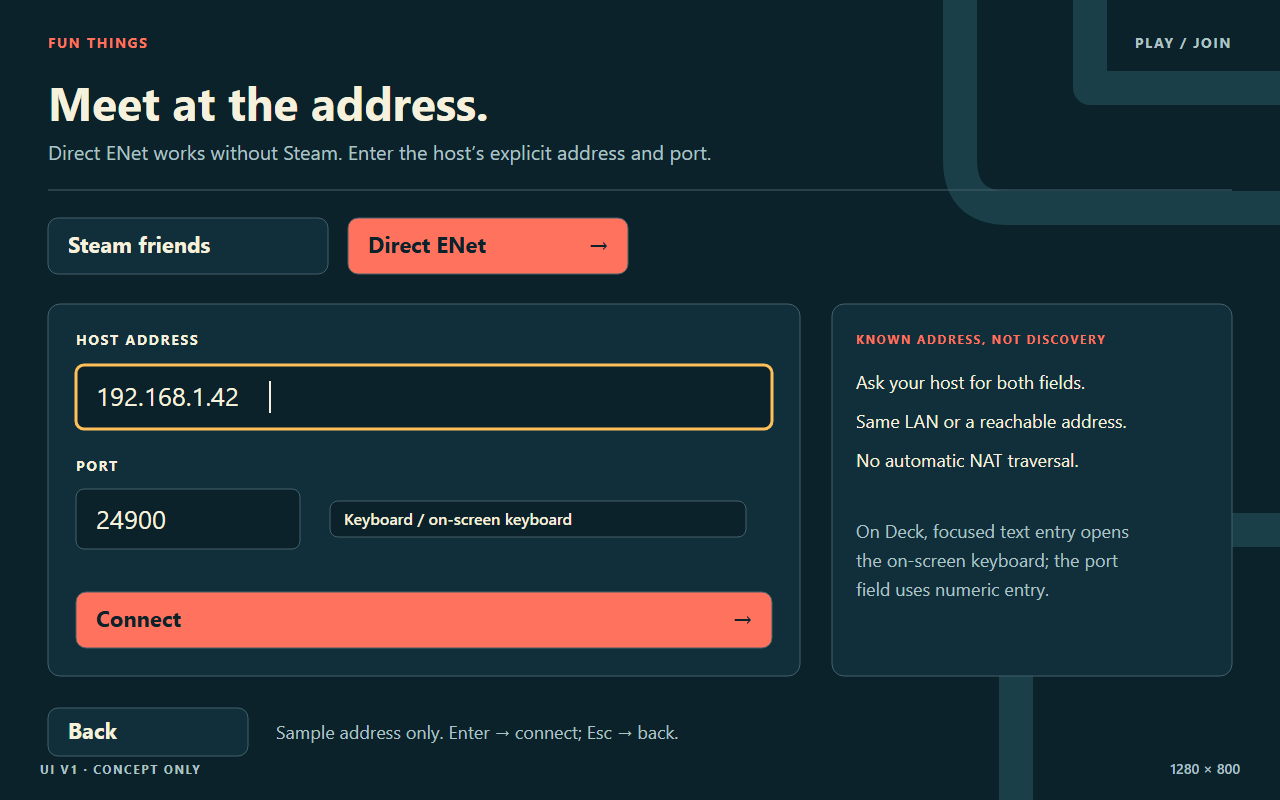
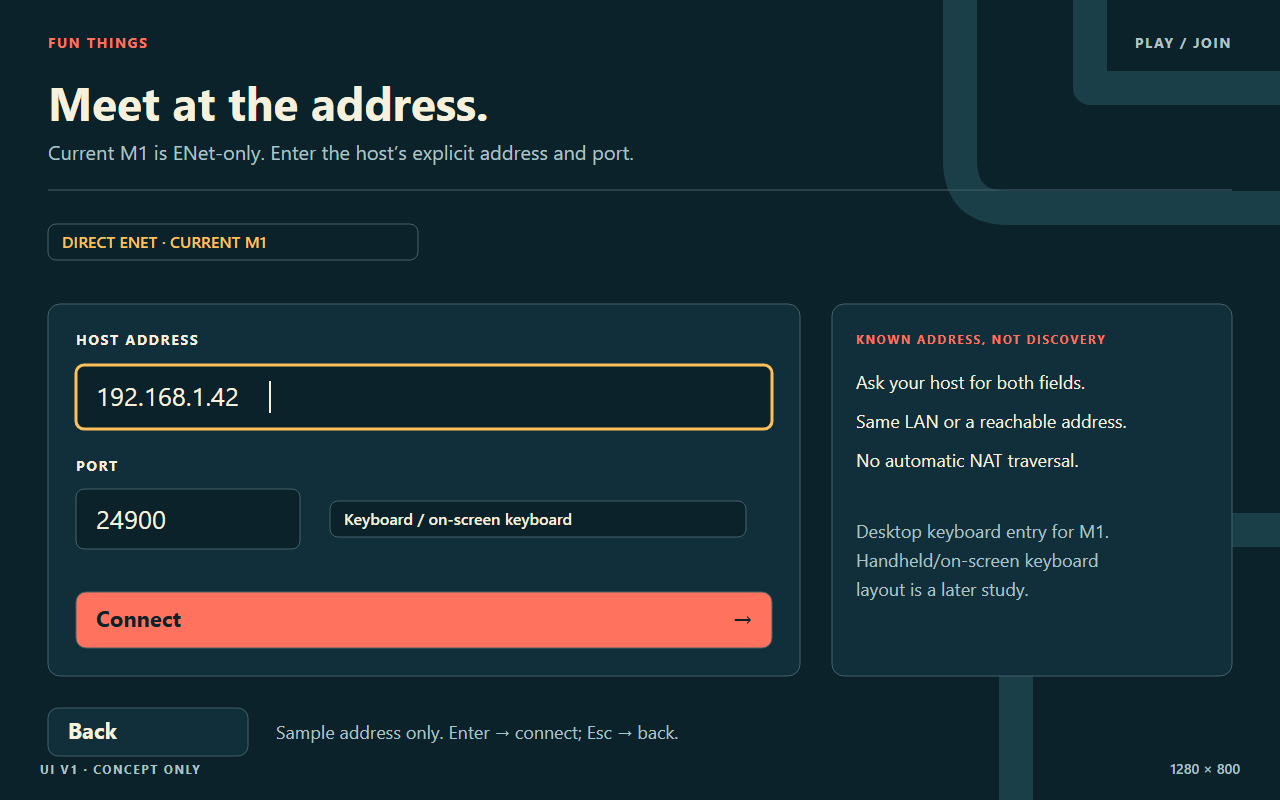
docs: separate ENet-only UI from future Steam exploration

diff --git a/docs/concepts/ui-v1/review.html b/docs/concepts/ui-v1/review.html
@@ -1,8 +1,9 @@
 <!doctype html>
 <html lang="en"><head><meta charset="utf-8"><meta name="viewport" content="width=device-width,initial-scale=1"><title>Fun Things — UI v1</title><style>*{box-sizing:border-box}html{color-scheme:dark;background:#0c222b;color:#f6f1dc;font-family:system-ui,Arial,sans-serif}body{margin:0}main{max-width:1440px;margin:auto;padding:48px 32px 80px}a{color:#80d4c5;text-underline-offset:4px}a:focus-visible{outline:3px solid #ffc05a;outline-offset:5px}h1{font-size:clamp(32px,5vw,64px);line-height:1.05;margin:12px 0 24px}h2{font-size:28px;margin:48px 0 24px}p{line-height:1.6;max-width:85ch;color:#aec3c6}.eyebrow{color:#ff725d;font-weight:700;letter-spacing:.12em}nav{display:flex;flex-wrap:wrap;gap:24px;margin:28px 0}.swatches{display:flex;flex-wrap:wrap;gap:10px;margin:24px 0}.swatches span{padding:10px 18px;border-radius:6px;color:#0c222b;font-weight:650}.grid{display:grid;grid-template-columns:repeat(2,minmax(0,1fr));gap:28px}figure{margin:0;border:1px solid #45616b;background:#102f3a;border-radius:12px;overflow:hidden}figure img{display:block;width:100%;height:auto}figcaption{padding:16px 20px 20px;line-height:1.6}figcaption strong{display:block;font-size:20px;margin-bottom:6px}footer{border-top:1px solid #45616b;margin-top:48px;padding-top:20px}@media(max-width:850px){.grid{grid-template-columns:1fr}main{padding:24px 16px 48px}}</style></head><body><main>
 <p class="eyebrow">FUN THINGS / UI V1 / 8 OCTOBER 2026</p><h1>A little city.<br>A lot of trouble.</h1>
-<p>First concept pass in Petrol &amp; Coral. Eighteen screens at native 1280 × 800, with editable standalone SVG sources. These are static proposals, not implemented UI or owner acceptance. Click an image for the native PNG; view at 100% for text and marker size.</p>
-<nav aria-label="Review navigation"><a href="#gameplay">Gameplay &amp; map</a><a href="#menus">Menus &amp; sessions</a><a href="README.md">Rationale, tokens &amp; questions</a><a href="../../spikes/ui-v1-evidence/README.md">Validation evidence</a></nav>
+<p>First concept pass in Petrol &amp; Coral. Twenty-one screens at native 1280 × 800, with editable standalone SVG sources. These are static proposals, not implemented UI or owner acceptance. Click an image for the native PNG; view at 100% for text and marker size.</p>
+<p><strong>Current M1 is ENet-only.</strong> Host/join/lobby/admission use direct ENet with no Steam selector. Steam drawings are retained below as <strong>FUTURE ADAPTER EXPLORATION</strong> only: no Steam-specific features or testing now.</p>
+<nav aria-label="Review navigation"><a href="#gameplay">Gameplay &amp; map</a><a href="#menus">Current ENet menus</a><a href="#future">Future adapter exploration</a><a href="README.md">Rationale, tokens &amp; questions</a><a href="../../spikes/ui-v1-evidence/README.md">Validation evidence</a></nav>
 <div class="swatches" aria-label="Core palette"><span style="background:#f6f1dc">Ivory</span><span style="background:#ff725d">Coral</span><span style="background:#ffc05a">Amber focus</span><span style="background:#80d4c5">Pale teal</span><span style="background:#8ab8ff">Pale cobalt</span></div>
 <h2 id="gameplay">01–08 / Gameplay &amp; map</h2><p>Only the minimap's top-right position is accepted. Compare the full frame, not just the inner map. 200 px roads + blocks is the first candidate to try; the 240 px study exposes more occlusion. Tags and numbers are illustrative overlays.</p><div class="grid">
 <figure><a href="01-foot-compact.png"><img src="01-foot-compact.png" width="1280" height="800" loading="lazy" alt="On foot · compact / 160 px concept mockup"></a><figcaption><strong>01 · On foot · compact / 160 px</strong><a href="01-foot-compact.png">Native PNG</a> · <a href="01-foot-compact.svg">Standalone SVG</a></figcaption></figure>
@@ -13,14 +14,17 @@
 <figure><a href="06-car-moving.png"><img src="06-car-moving.png" width="1280" height="800" loading="lazy" alt="Driving · moving / exit unavailable concept mockup"></a><figcaption><strong>06 · Driving · moving / exit unavailable</strong><a href="06-car-moving.png">Native PNG</a> · <a href="06-car-moving.svg">Standalone SVG</a></figcaption></figure>
 <figure><a href="07-car-stopped.png"><img src="07-car-stopped.png" width="1280" height="800" loading="lazy" alt="Driving · stopped / exit eligible concept mockup"></a><figcaption><strong>07 · Driving · stopped / exit eligible</strong><a href="07-car-stopped.png">Native PNG</a> · <a href="07-car-stopped.svg">Standalone SVG</a></figcaption></figure>
 <figure><a href="08-minimap-directions.png"><img src="08-minimap-directions.png" width="1280" height="800" loading="lazy" alt="Minimap · three native-size directions concept mockup"></a><figcaption><strong>08 · Minimap · three native-size directions</strong><a href="08-minimap-directions.png">Native PNG</a> · <a href="08-minimap-directions.svg">Standalone SVG</a></figcaption></figure>
-</div><h2 id="menus">09–18 / Menus &amp; sessions</h2><p>Large actions, visible keyboard/controller focus, Steam friends and direct ENet kept distinct. No new settings beyond audio. World state, admission, cancellation and errors have explicit language; none of these flows is implemented by a drawing.</p><div class="grid"><figure><a href="09-main-menu.png"><img src="09-main-menu.png" width="1280" height="800" loading="lazy" alt="Main menu · Fun Things concept mockup"></a><figcaption><strong>09 · Main menu · Fun Things</strong><a href="09-main-menu.png">Native PNG</a> · <a href="09-main-menu.svg">Standalone SVG</a></figcaption></figure>
-<figure><a href="10-host.png"><img src="10-host.png" width="1280" height="800" loading="lazy" alt="Host · Steam friends and direct ENet concept mockup"></a><figcaption><strong>10 · Host · Steam friends and direct ENet</strong><a href="10-host.png">Native PNG</a> · <a href="10-host.svg">Standalone SVG</a></figcaption></figure>
-<figure><a href="11-join-steam.png"><img src="11-join-steam.png" width="1280" height="800" loading="lazy" alt="Join · Steam friends concept mockup"></a><figcaption><strong>11 · Join · Steam friends</strong><a href="11-join-steam.png">Native PNG</a> · <a href="11-join-steam.svg">Standalone SVG</a></figcaption></figure>
-<figure><a href="12-join-direct.png"><img src="12-join-direct.png" width="1280" height="800" loading="lazy" alt="Join · direct ENet address concept mockup"></a><figcaption><strong>12 · Join · direct ENet address</strong><a href="12-join-direct.png">Native PNG</a> · <a href="12-join-direct.svg">Standalone SVG</a></figcaption></figure>
-<figure><a href="13-lobby.png"><img src="13-lobby.png" width="1280" height="800" loading="lazy" alt="Lobby · up to four players concept mockup"></a><figcaption><strong>13 · Lobby · up to four players</strong><a href="13-lobby.png">Native PNG</a> · <a href="13-lobby.svg">Standalone SVG</a></figcaption></figure>
+</div><h2 id="menus">Current M1 / ENet menus &amp; sessions</h2><p>Large actions and visible focus. Direct ENet is the only current/default multiplayer path: 10 Host → 13 Lobby; 12 Join direct → 18 Admission. Sheet 11 is separated into the future-only section below. No new settings beyond audio. World state, admission, cancellation and errors have explicit language; none of these flows is implemented by a drawing.</p><div class="grid"><figure><a href="09-main-menu.png"><img src="09-main-menu.png" width="1280" height="800" loading="lazy" alt="Main menu · Fun Things concept mockup"></a><figcaption><strong>09 · Main menu · Fun Things</strong><a href="09-main-menu.png">Native PNG</a> · <a href="09-main-menu.svg">Standalone SVG</a></figcaption></figure>
+<figure><a href="10-host.png"><img src="10-host.png" width="1280" height="800" loading="lazy" alt="Current M1 · ENet-only host concept mockup"></a><figcaption><strong>10 · Current M1 · ENet-only host</strong><a href="10-host.png">Native PNG</a> · <a href="10-host.svg">Standalone SVG</a></figcaption></figure>
+<figure><a href="12-join-direct.png"><img src="12-join-direct.png" width="1280" height="800" loading="lazy" alt="Current M1 · ENet-only join concept mockup"></a><figcaption><strong>12 · Current M1 · ENet-only join</strong><a href="12-join-direct.png">Native PNG</a> · <a href="12-join-direct.svg">Standalone SVG</a></figcaption></figure>
+<figure><a href="13-lobby.png"><img src="13-lobby.png" width="1280" height="800" loading="lazy" alt="Current M1 · ENet-only lobby concept mockup"></a><figcaption><strong>13 · Current M1 · ENet-only lobby</strong><a href="13-lobby.png">Native PNG</a> · <a href="13-lobby.svg">Standalone SVG</a></figcaption></figure>
 <figure><a href="14-pause.png"><img src="14-pause.png" width="1280" height="800" loading="lazy" alt="Pause menu · local menu, live online world concept mockup"></a><figcaption><strong>14 · Pause menu · local menu, live online world</strong><a href="14-pause.png">Native PNG</a> · <a href="14-pause.svg">Standalone SVG</a></figcaption></figure>
 <figure><a href="15-audio-settings.png"><img src="15-audio-settings.png" width="1280" height="800" loading="lazy" alt="Settings · audio only concept mockup"></a><figcaption><strong>15 · Settings · audio only</strong><a href="15-audio-settings.png">Native PNG</a> · <a href="15-audio-settings.svg">Standalone SVG</a></figcaption></figure>
 <figure><a href="16-host-lost.png"><img src="16-host-lost.png" width="1280" height="800" loading="lazy" alt="Connection · host lost concept mockup"></a><figcaption><strong>16 · Connection · host lost</strong><a href="16-host-lost.png">Native PNG</a> · <a href="16-host-lost.svg">Standalone SVG</a></figcaption></figure>
 <figure><a href="17-join-error.png"><img src="17-join-error.png" width="1280" height="800" loading="lazy" alt="Connection · direct ENet unreachable concept mockup"></a><figcaption><strong>17 · Connection · direct ENet unreachable</strong><a href="17-join-error.png">Native PNG</a> · <a href="17-join-error.svg">Standalone SVG</a></figcaption></figure>
-<figure><a href="18-join-loading.png"><img src="18-join-loading.png" width="1280" height="800" loading="lazy" alt="Join · current-state admission and cancel concept mockup"></a><figcaption><strong>18 · Join · current-state admission and cancel</strong><a href="18-join-loading.png">Native PNG</a> · <a href="18-join-loading.svg">Standalone SVG</a></figcaption></figure>
+<figure><a href="18-join-loading.png"><img src="18-join-loading.png" width="1280" height="800" loading="lazy" alt="Current M1 · ENet-only admission and cancel concept mockup"></a><figcaption><strong>18 · Current M1 · ENet-only admission and cancel</strong><a href="18-join-loading.png">Native PNG</a> · <a href="18-join-loading.svg">Standalone SVG</a></figcaption></figure>
+</div><h2 id="future">FUTURE ADAPTER EXPLORATION</h2><p>Not current M1. These four retained Steam concepts only inform abstractions/APIs for a later adapter. Every sheet has a visible FUTURE ADAPTER EXPLORATION title tag and an ENet-only-current-M1 footer. No Steam feature implementation or testing is commissioned.</p><div class="grid"><figure><a href="11-join-steam.png"><img src="11-join-steam.png" width="1280" height="800" loading="lazy" alt="FUTURE ADAPTER EXPLORATION: Steam friends join"></a><figcaption><strong>11 · FUTURE ADAPTER EXPLORATION: Steam friends join</strong><a href="11-join-steam.png">Native PNG</a> · <a href="11-join-steam.svg">Standalone SVG</a></figcaption></figure>
+<figure><a href="19-host-steam-future.png"><img src="19-host-steam-future.png" width="1280" height="800" loading="lazy" alt="FUTURE ADAPTER EXPLORATION: Steam host"></a><figcaption><strong>19 · FUTURE ADAPTER EXPLORATION: Steam host</strong><a href="19-host-steam-future.png">Native PNG</a> · <a href="19-host-steam-future.svg">Standalone SVG</a></figcaption></figure>
+<figure><a href="20-lobby-steam-future.png"><img src="20-lobby-steam-future.png" width="1280" height="800" loading="lazy" alt="FUTURE ADAPTER EXPLORATION: Steam lobby"></a><figcaption><strong>20 · FUTURE ADAPTER EXPLORATION: Steam lobby</strong><a href="20-lobby-steam-future.png">Native PNG</a> · <a href="20-lobby-steam-future.svg">Standalone SVG</a></figcaption></figure>
+<figure><a href="21-loading-steam-future.png"><img src="21-loading-steam-future.png" width="1280" height="800" loading="lazy" alt="FUTURE ADAPTER EXPLORATION: Steam admission"></a><figcaption><strong>21 · FUTURE ADAPTER EXPLORATION: Steam admission</strong><a href="21-loading-steam-future.png">Native PNG</a> · <a href="21-loading-steam-future.svg">Standalone SVG</a></figcaption></figure>
 </div><footer><p>System sans fonts. Project-owned backgrounds only, embedded in each SVG. No Godot scene/theme/code changes. Actual Steam Deck legibility, input, motion and owner preference remain open. See the README for each screen’s rationale and review question.</p></footer></main></body></html>

diff --git a/docs/concepts/ui-v1/README.md b/docs/concepts/ui-v1/README.md
@@ -5,7 +5,7 @@
 [Open the visual gallery](review.html) · [Start with the 200 px HUD](02-foot-balanced.png) ·
 [Compare minimaps](08-minimap-directions.png) · [Main menu](09-main-menu.png)
 
-Eighteen **1280 × 800** screens, each supplied as an editable, standalone SVG and an
+Twenty-one **1280 × 800** screens, each supplied as an editable, standalone SVG and an
 Edge-rendered PNG. Open the PNG links at **100%**, not the thumbnail size. The SVGs
 embed their background PNGs, use system sans fonts, and need no network or sibling
 assets to render. The gallery uses the adjacent PNG files.
@@ -15,6 +15,19 @@ of the proposed HUD, or Steam/Deck acceptance**. No Godot scenes, themes, gamepl
 product rules, TODOs or task requirements were changed. Documentation assets were
 written directly: the editor was not running and no MCP editor tools were available.
 `.gdignore` keeps this concept pack out of Godot's asset import scan.
+
+## Current scope — ENet only
+
+**Current M1 is ENet-only**, per owner decision 9 (8 October). There are no current
+Steam-specific features, selectable Steam transport, friend invites or Steam testing.
+The default/current multiplayer flow is **10 Host → 13 Lobby**, or **12 Join direct →
+18 Admission**. These drawings now show only ENet, not a transport picker.
+
+**FUTURE ADAPTER EXPLORATION:** sheets **11, 19, 20 and 21** preserve the Steam concepts
+solely to inform abstractions/APIs for a later adapter. Each carries that visible title
+tag and an explicit ENet-only-current-M1 footer. They are not current feature commitments,
+implementation tasks or authorization for Steam-specific testing. The earlier Steam-default
+presentation was rejected in review; this revision supersedes it without discarding the art.
 
 ## Direction
 
@@ -97,15 +110,26 @@ Questions below are design-review prompts, **not blocking decisions or approved 
 | Preview / source | Rationale and 1280 × 800 readability | Owner review question |
 | --- | --- | --- |
 | [<img src="09-main-menu.png" width="256" alt="Main menu with large Fun Things title and solo, host, join, settings and quit actions">](09-main-menu.png)<br>**09 · Main menu** · [SVG](09-main-menu.svg) | The city supplies personality; a left-side scrim makes the five 56 px actions readable. Solo is independent of Steam. A build/revision area is reserved, not populated with a fake build number. | Does the playful copy fit the game's tone? |
-| [<img src="10-host.png" width="256" alt="Steam host form with annotated alternate direct ENet port form">](10-host.png)<br>**10 · Host** · [SVG](10-host.svg) | Connection chosen before creating the lobby. Steam is selected; the right card is **annotated alternate ENet tab content**, not a simultaneous transport. Port field has ample space. | Should the first visual emphasis be Steam friends or a neutral connection choice? |
-| [<img src="11-join-steam.png" width="256" alt="Steam friend join list including an available game and full game">](11-join-steam.png)<br>**11 · Join friends** · [SVG](11-join-steam.svg) | Broad friend rows, explicit counts and a non-action Full badge. Refresh and a clear fallback to solo/direct ENet. Sample names, not account data. | Are friend name and player count enough, without decorative session metadata? |
-| [<img src="12-join-direct.png" width="256" alt="Direct ENet address and port form with visible text focus">](12-join-direct.png)<br>**12 · Join direct** · [SVG](12-join-direct.svg) | 26 px address/port text, separate fields and visible focus. Planned on-screen keyboard path is called out; no LAN browser or NAT-traversal promise. | Is the connection guidance clear for a friend who has never used direct ENet? |
-| [<img src="13-lobby.png" width="256" alt="Four-slot lobby showing three connected players and one open place">](13-lobby.png)<br>**13 · Lobby** · [SVG](13-lobby.svg) | Four slots maximum; number + name + status, no teams or speculative ready mechanic. Host starts; guests wait. Steam invite swaps for address/port sharing on ENet. | Does the lobby need anything beyond people, invite/share and Start? |
+| [<img src="10-host.png" width="256" alt="Current M1 ENet-only host form with explicit port">](10-host.png)<br>**10 · Current M1: ENet host** · [SVG](10-host.svg) | Default/current host presentation: explicit port and Create ENet lobby. No Steam selector. Port focus and 26 px text stay clear. Prior Steam host retained in 19. | Are the port and address-sharing instructions clear enough? |
+| [<img src="12-join-direct.png" width="256" alt="Direct ENet address and port form with visible text focus">](12-join-direct.png)<br>**12 · Current M1: ENet join** · [SVG](12-join-direct.svg) | Default/current join presentation: 26 px address/port text, separate fields and visible focus. No Steam tab, LAN browser or NAT-traversal promise. Handheld keyboard layout is a later study. | Is the connection guidance clear for a friend who has never used direct ENet? |
+| [<img src="13-lobby.png" width="256" alt="Four-slot lobby showing three connected players and one open place">](13-lobby.png)<br>**13 · Current M1: ENet lobby** · [SVG](13-lobby.svg) | Four slots maximum; number + name + status, no teams or speculative ready mechanic. Host starts; guests wait. Explicit address/port sharing replaces Steam invites; prior Steam lobby retained in 20. | Does the lobby need anything beyond people, invite/share and Start? |
 | [<img src="14-pause.png" width="256" alt="Online host local menu warning that the world keeps running">](14-pause.png)<br>**14 · Local pause menu** · [SVG](14-pause.svg) | Unambiguous ONLINE — WORLD STILL RUNNING message. Resume is initially focused. Reset/leave are separated from benign actions; right card explains the host-only state. | Is the live-world warning prominent enough without overwhelming Resume? |
 | [<img src="15-audio-settings.png" width="256" alt="Audio-only settings with master music SFX sliders and mute">](15-audio-settings.png)<br>**15 · Audio settings** · [SVG](15-audio-settings.svg) | Master/Music/SFX and mute only. Wide sliders, numeric percentages, amber focus, immediate local preview/persistence. No graphics or gameplay tabs. | Do these slider proportions and the separate mute control read comfortably? |
 | [<img src="16-host-lost.png" width="256" alt="Host lost dialog ending the match with a focused return to main menu action">](16-host-lost.png)<br>**16 · Host lost** · [SVG](16-host-lost.svg) | A single recovery action, explicit match end and no migration promise. Critical message 40 px; supporting copy 20 px. No ambiguous Resume or reconnect countdown. | Does the wording explain the loss without sounding like a crash? |
 | [<img src="17-join-error.png" width="256" alt="Unreachable direct ENet join error with edit address and retry actions">](17-join-error.png)<br>**17 · Join error** · [SVG](17-join-error.svg) | Unreachable case keeps the sample address visible. Edit address is focused; Retry is available after attempt cleanup. The same shell can carry accurate Full/Incompatible messages. | Is Edit address the most helpful initial focus on this failure? |
-| [<img src="18-join-loading.png" width="256" alt="Join admission stages with current state installation and cancel action">](18-join-loading.png)<br>**18 · Joining / cancel** · [SVG](18-join-loading.svg) | Connection, current-state installation and admission are distinct. No invented percentage or ETA. Large reachable Cancel; controls unlock only after admission. | Is this amount of progress detail reassuring rather than technical noise? |
+| [<img src="18-join-loading.png" width="256" alt="Join admission stages with current state installation and cancel action">](18-join-loading.png)<br>**18 · Current M1: ENet admission** · [SVG](18-join-loading.svg) | Direct ENet connection, current-state installation and admission are distinct. No invented percentage or ETA. Large reachable Cancel; controls unlock only after admission. Prior Steam version retained in 21. | Is this amount of progress detail reassuring rather than technical noise? |
+
+### FUTURE ADAPTER EXPLORATION — not current M1
+
+These retained drawings are separate from the ENet-only flow above. The labels apply to
+all controls shown inside them, including any Steam/ENet comparison tabs.
+
+| Preview / source | Rationale and 1280 × 800 readability | Future-only review question |
+| --- | --- | --- |
+| [<img src="11-join-steam.png" width="256" alt="FUTURE ADAPTER EXPLORATION: Steam friends join">](11-join-steam.png)<br>**11 · FUTURE ADAPTER EXPLORATION: friends join** · [SVG](11-join-steam.svg) | Preserved broad friend rows, player counts and Full badge. Visible future-only title and current-M1 ENet-only footer prevent treating this as a current selectable service. | For a later adapter, are name and count enough? |
+| [<img src="19-host-steam-future.png" width="256" alt="FUTURE ADAPTER EXPLORATION: Steam host">](19-host-steam-future.png)<br>**19 · FUTURE ADAPTER EXPLORATION: Steam host** · [SVG](19-host-steam-future.svg) | Preserves the original Steam host study and comparison card, with the future-only title and ENet-only-current-M1 footer. Main port/action spacing remains native size. | Could a later adapter reuse the same host/session boundary? |
+| [<img src="20-lobby-steam-future.png" width="256" alt="FUTURE ADAPTER EXPLORATION: Steam lobby">](20-lobby-steam-future.png)<br>**20 · FUTURE ADAPTER EXPLORATION: Steam lobby** · [SVG](20-lobby-steam-future.svg) | Preserves the original four-slot Steam invite layout with explicit future-only labelling. Name/status hierarchy stays identical to the current ENet lobby. | Can future identity/invite presentation stay separate from admission? |
+| [<img src="21-loading-steam-future.png" width="256" alt="FUTURE ADAPTER EXPLORATION: Steam admission">](21-loading-steam-future.png)<br>**21 · FUTURE ADAPTER EXPLORATION: Steam admission** · [SVG](21-loading-steam-future.svg) | Retains the original Steam progress/cancel study with explicit future-only title and footer. No percentage or ETA is invented. | Can a later adapter retain the common cancel/admission lifecycle? |
 
 ## State and presentation notes
 
@@ -113,7 +137,9 @@ The [product brief](../../design.md) owns gameplay/session scope. For this pass,
 8 October owner handoff supersedes its older camera/control wording: **42° FOV, 47 m,
 vertically top-down, fixed north-up; WASD movement plus mouse aim; no building cutaway;
 no firing from cars; exit only when stopped; four players**. No camera rotation is
-proposed. This README does not reconcile other lanes' product records.
+proposed. Decision 9 supersedes the older Steam feature scope: **current M1 is ENet-only**.
+Decision 10 places desktop M1 before later Deck work. This README does not reconcile other
+lanes' product records.
 
 - **Foot:** show weapon name + magazine/capacity, unlimited reserve for pistol/SMG;
   launcher would use the same slot for cooldown, not finite rocket inventory. Values
@@ -139,11 +165,14 @@ proposed. This README does not reconcile other lanes' product records.
   detected in these screenshots. Numbering is a visual sample, not a network identity or
   host-always-1 rule. Names must eventually handle truncation/localization; hide/occlusion
   behaviour and simultaneous tag clutter need a real scene, not these scattered samples.
-- **Sessions:** select Steam or ENet before the attempt, keep it until teardown. Solo and
-  ENet remain usable without Steam. Lobby membership is not gameplay admission. Late join
-  installs current state before control; it does not replay historical explosion effects.
-  Cancel/retry must drain the old attempt. An invite during a match first asks before
-  leaving; reuse the dialog shell with Cancel initially focused, do not silently switch.
+- **Current sessions:** ENet only; no transport selector or Steam-specific features/testing.
+  Solo is independent of the network. Host/join use explicit port/address and the common
+  session lifecycle. Membership is not gameplay admission. Late join installs current state
+  before control; it does not replay historical explosion effects. Cancel/retry drains the
+  old attempt. Current host/join/lobby/admission sheets are 10, 12, 13 and 18.
+- **Future adapter exploration only (11, 19–21):** Steam friend joins, lobby identity mapping,
+  message lanes and connection lifecycle may inform abstractions/APIs for a later adapter.
+  The invite/leave-confirmation concept is not a current M1 feature or testing requirement.
 - **Host loss and local menu:** no migration; clients return to a usable menu. Online
   settings/local menu never pause shared simulation. Only host/standalone can reset, with
   explicit destructive confirmation; guests omit Reset. Host leave warns that everyone
@@ -206,11 +235,13 @@ mkdir -p /c/tmp/ft/lanes/ui-mockups/my-render
   file:///C:/GameDev/git/ft-lanes/ui-mockups/docs/concepts/ui-v1/02-foot-balanced.svg
 ```
 
-The final render manifest contains all 18 expanded commands. Do not use a shared personal
+The evidence index separates the original 18-screen render manifest from the review-R1
+manifest for eight revised/new screens; together they bind the current 21-screen pack. Do not use a shared personal
 browser profile. An initial shared scratch-profile run timed out after its third PNG was
 written; the failed attempt and clean isolated-profile rerun are retained separately.
 No runtime application code or automated gameplay tests were added for this concept pass.
 
 **Next review:** pick a map direction/size and a HUD density from 01–08, then review menu
-wording/focus from 09–18. Take the chosen candidate into a separately assigned saved-Godot-UI
-pass and an actual 1280 × 800 Deck check; do not convert these drawings into ratified scope.
+wording/focus in the current ENet-only flow (10, 12, 13, 18). Future Steam sheets 11 and
+19–21 are abstraction references only, not selectable M1 features. Take the chosen candidate
+into a separately assigned saved-Godot-UI pass; physical Deck work is later, not an M1 blocker.
